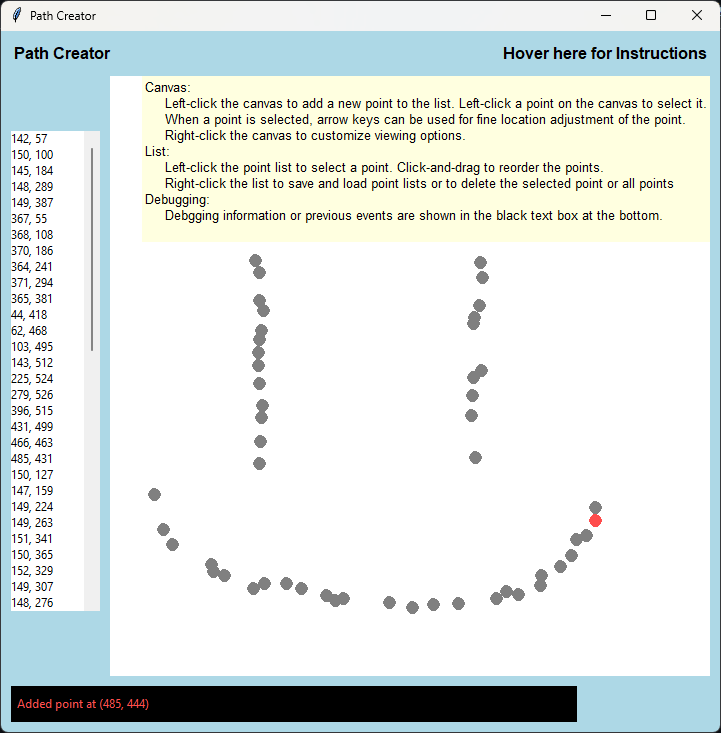
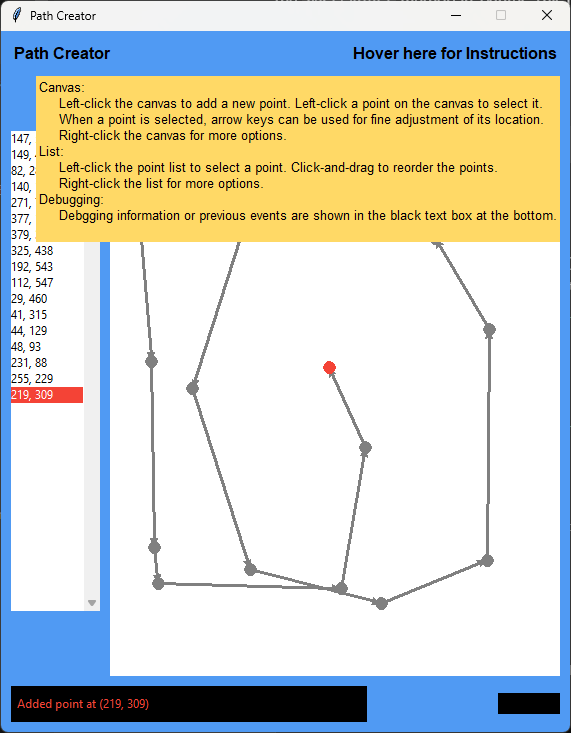
features added

diff --git a/path_creator/path_creator.py b/path_creator/path_creator.py
@@ -26,6 +26,7 @@ class ReorderListApp:
         self.root = root
         self.root.title("Path Creator")
         root.configure(bg=BLUE)
+        root.resizable(False, False)
         
         self.locked_x = False
         self.locked_y = False
@@ -134,13 +135,13 @@ class ReorderListApp:
         self.canvas_context_menu.add_command(label="     Decrease arrow thickness", command=self.decrease_arrow_thickness, activebackground=BLUE,activeforeground=BLACK)
         self.canvas_context_menu.add_command(label=f"{'Disable arrows' if self.arrows_enabled else 'Enable arrows'}", command=self.set_arrows_state, activebackground=BLUE,activeforeground=BLACK)
         self.canvas_context_menu.add_separator()
-        self.canvas_context_menu.add_command(label=f"{'Lock x axis' if not self.locked_x else 'Unlock x axis'}", command=self.toggle_lock_x, activebackground=BLUE,activeforeground=BLACK)
-        self.canvas_context_menu.add_command(label=f"{'Lock y axis' if not self.locked_y else 'Unlock y axis'}", command=self.toggle_lock_y, activebackground=BLUE,activeforeground=BLACK)
+        self.canvas_context_menu.add_command(label=f"{'Lock selected x value' if not self.locked_x else 'Unlock selected x value'}", command=self.toggle_lock_x, activebackground=BLUE,activeforeground=BLACK)
+        self.canvas_context_menu.add_command(label=f"{'Lock selected y value' if not self.locked_y else 'Unlock selected y value'}", command=self.toggle_lock_y, activebackground=BLUE,activeforeground=BLACK)
         self.canvas_context_menu.add_separator()
         self.canvas_context_menu.add_command(label="Delete selected point", command=self.delete_selected_item, activebackground=RED)
         self.canvas_context_menu.add_separator()
         self.canvas_context_menu.add_command(label="Clear all points", command=self.clear_items, activebackground=RED)  
-        
+    
     def show_tooltip(self, event):
         x = self.instructions_label.winfo_rootx() - (self.tooltip.winfo_reqwidth() - self.instructions_label.winfo_width())
         y = self.instructions_label.winfo_rooty() + self.instructions_label.winfo_reqheight() + 10
@@ -152,8 +153,9 @@ class ReorderListApp:
     
     def add_item(self, event):
         x = event.x; y = self.canvas_height - event.y; canvas_y = event.y
-        if self.locked_x: x = self.items[self.selected_index][0]
-        if self.locked_y: y = self.items[self.selected_index][1]; canvas_y = self.items[self.selected_index][2]
+        if len(self.items) > 0:
+            if self.locked_x: x = self.items[self.selected_index][0]
+            if self.locked_y: y = self.items[self.selected_index][1]; canvas_y = self.items[self.selected_index][2]
         self.items.append((x, y, canvas_y))
         self.display_error(f"Added point at ({x}, {y})")
         self.selected_index = len(self.items) - 1
@@ -208,6 +210,7 @@ class ReorderListApp:
         self.listbox.delete(0, tk.END)
         for item in self.items: self.listbox.insert(tk.END, f"{item[0]}, {item[1]}")
         if self.selected_index is not None: self.listbox.select_set(self.selected_index)
+        self.listbox.yview_moveto(1)
 
 
     def redraw_canvas(self):
@@ -291,10 +294,9 @@ class ReorderListApp:
         x, y, canvas_y = self.items[self.selected_index]
         if event.keysym == "Left": x -= 1
         elif event.keysym == "Right": x += 1
-        elif event.keysym == "Up": y -= 1; canvas_y -= 1
-        elif event.keysym == "Down": y += 1; canvas_y += 1
+        elif event.keysym == "Up": y += 1; canvas_y -= 1
+        elif event.keysym == "Down": y -= 1; canvas_y += 1
         self.items[self.selected_index] = (x, y,canvas_y)
-        self.display_error(f"point ({x-1},{y-1}) moved to ({x},{y})")
         self.update_listbox(); self.redraw_canvas()
             
             
@@ -358,13 +360,13 @@ class ReorderListApp:
         
     def toggle_lock_x(self):
         self.locked_x = not self.locked_x
-        self.display_error(f"{'x axis was locked' if self.locked_x else 'x axis was unlocked'}")
-        self.canvas_context_menu.entryconfig(9, label=f"{'Unlock x axis' if self.locked_x else 'Lock x axis'}")
+        self.display_error(f"{'x value was locked' if self.locked_x else 'x value was unlocked'}")
+        self.canvas_context_menu.entryconfig(9, label=f"{'Lock selected x value' if not self.locked_x else 'Unlock selected x value'}")
             
     def toggle_lock_y(self):
         self.locked_y = not self.locked_y
-        self.display_error(f"{'y axis was locked' if self.locked_y else 'y axis was unlocked'}")
-        self.canvas_context_menu.entryconfig(10, label=f"{'Unlock y axis' if self.locked_y else 'Lock y axis'}")
+        self.display_error(f"{'y value was locked' if self.locked_y else 'y value was unlocked'}")
+        self.canvas_context_menu.entryconfig(10, label=f"{'Lock selected y value' if not self.locked_y else 'Unlock selected y value'}")
 
 
 if __name__ == "__main__":

diff --git a/README.md b/README.md
@@ -1,4 +1,4 @@
-# Mobile Robotics Fall 2024 
+# Mobile Robotics Fall 2024
 
 ## Path Creator
 
@@ -7,7 +7,9 @@
 ### To Do
 - [x] Save and load csv files
 - [x] Adjust coordinate system so bottom left is origin (match english letter writing)
-- [x] Display x and y position of cursor on canvas in bottom right 
+- [x] Display x and y position of cursor on canvas in bottom right
 - [x] Error and event messages
-- [x] Lock x and y axis values to currently selected point for placing points 
-- [ ] Click and drag canvas points to reorder 
+- [x] Lock x and y axis values to currently selected point for placing points
+- [x] 4:3 aspect ratio for canvas (match most fonts)
+- [x] Autoscroll the list when it overflows
+- [ ] Click and drag canvas points to reorder
